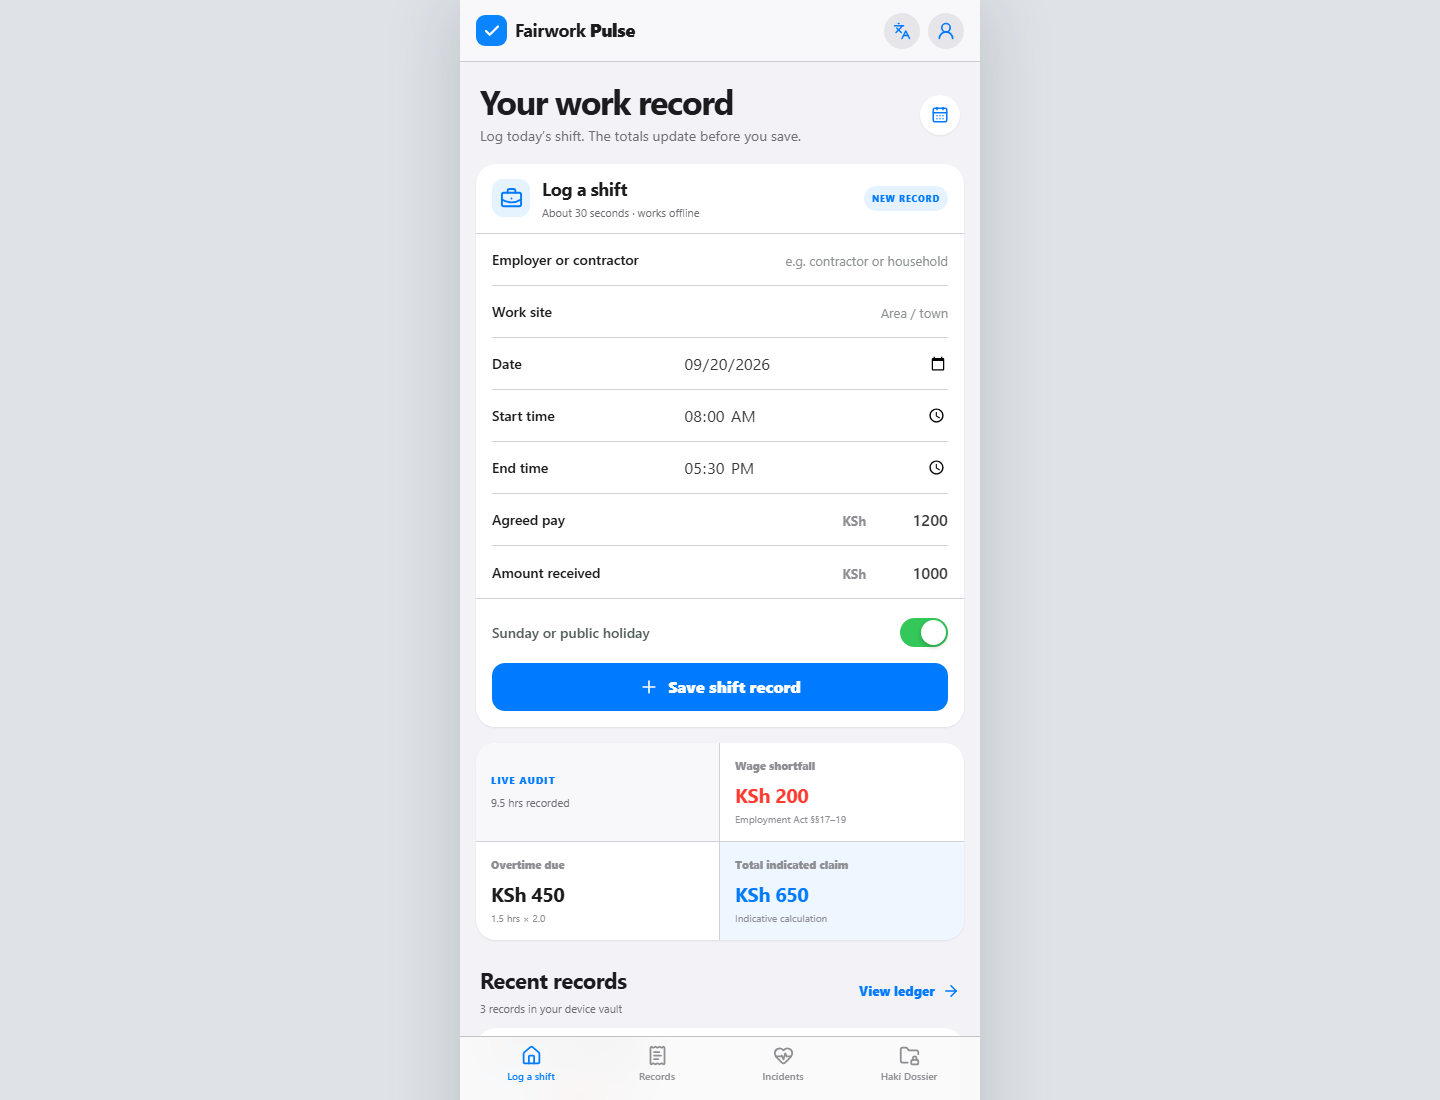
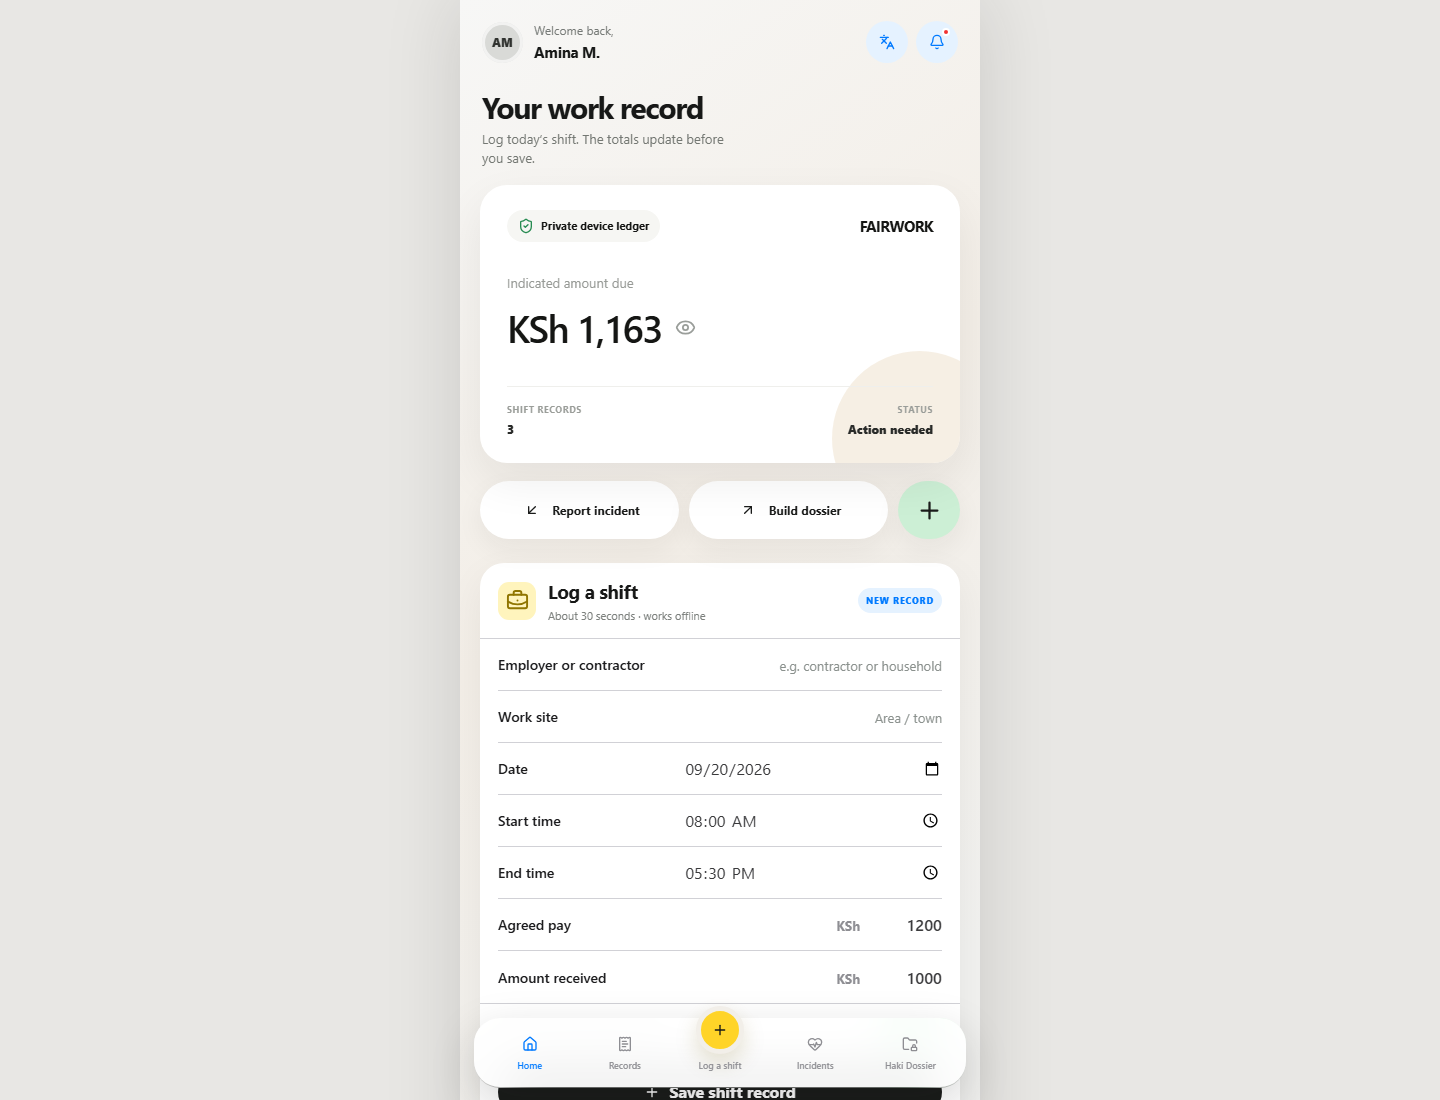
Redesign Fairwork Pulse as native mobile wallet UI

diff --git a/app/page.tsx b/app/page.tsx
@@ -1,6 +1,6 @@
 "use client";
 
-import { AlertTriangle, ArrowLeft, ArrowRight, Baby, Banknote, BriefcaseBusiness, CalendarDays, Camera, Check, ChevronRight, Download, FileCheck2, FileText, FolderLock, HeartPulse, Home, Languages, MapPin, Plus, ReceiptText, Scale, ShieldCheck, UserRound } from "lucide-react";
+import { AlertTriangle, ArrowDownLeft, ArrowLeft, ArrowRight, ArrowUpRight, Baby, Banknote, Bell, BriefcaseBusiness, CalendarDays, Camera, Check, ChevronRight, Download, Eye, FileCheck2, FileText, FolderLock, HeartPulse, Home, Languages, MapPin, Plus, ReceiptText, Scale, ShieldCheck, UserRound } from "lucide-react";
 import { FormEvent, useEffect, useMemo, useState } from "react";
 import { Button } from "@/components/ui/button";
 
@@ -34,11 +34,12 @@ export default function HomePage() {
   function submit(e: FormEvent) { e.preventDefault(); const next: Shift = { id: Date.now(), date: form.date, employer: form.employer || "Employer not named", location: form.location || "Site not named", start: form.start, end: form.end, agreed: Number(form.agreed), paid: Number(form.paid), sunday: form.sunday }; const updated = [next, ...shifts]; setShifts(updated); window.localStorage.setItem("fairwork-pulse-shifts", JSON.stringify(updated)); showToast("Shift saved to your device") }
   const totalOwed = shifts.reduce((sum, shift) => sum + audit(shift.agreed, shift.paid, shift.start, shift.end, shift.sunday).total, 0);
   const nav = [["home", Home, t.log], ["records", ReceiptText, t.records], ["incidents", HeartPulse, t.incidents], ["dossier", FolderLock, t.dossier]] as const;
+  const mobileNav = [["home", Home, "Home"], ["records", ReceiptText, t.records], ["quick-log", Plus, t.log], ["incidents", HeartPulse, t.incidents], ["dossier", FolderLock, t.dossier]] as const;
 
   return <main className="app-shell">
     <header className="topbar">
-      <a className="brand" href="#top" aria-label="Fairwork Pulse home"><span className="brand-mark"><Check size={18} strokeWidth={3} /></span><span>Fairwork <b>Pulse</b></span></a>
-      <div className="header-actions"><div className="device-status"><ShieldCheck size={17} /><span>{t.saved}</span></div><Button variant="iosTinted" size="iosIcon" className="language" onClick={() => setLang(lang === "en" ? "sw" : "en")} aria-label="Change language"><Languages size={18} /><span>{lang === "en" ? "Kiswahili" : "English"}</span></Button><Button variant="iosTinted" size="iosIcon" className="avatar" aria-label="Worker profile"><UserRound size={20} /></Button></div>
+      <button className="profile-greeting" type="button" aria-label="Worker profile"><span className="profile-photo">AM</span><span><small>Welcome back,</small><strong>Amina M.</strong></span></button>
+      <div className="header-actions"><div className="device-status"><ShieldCheck size={17} /><span>{t.saved}</span></div><Button variant="iosTinted" size="iosIcon" className="language" onClick={() => setLang(lang === "en" ? "sw" : "en")} aria-label="Change language"><Languages size={18} /><span>{lang === "en" ? "Kiswahili" : "English"}</span></Button><Button variant="iosTinted" size="iosIcon" className="notification" aria-label="Notifications"><Bell size={19} /><i /></Button></div>
     </header>
     <div className="desktop-grid" id="top">
       <aside className="side-nav" aria-label="Primary navigation">
@@ -54,6 +55,17 @@ export default function HomePage() {
           {active === "dossier" && <><div className="secondary-title"><div><h1>{t.dossier}</h1><p>Your evidence, calculations, and next steps in one reviewable package.</p></div><span className="ready-badge"><Check />Ready</span></div><article className="dossier-preview"><header><div className="dossier-logo"><Scale /></div><div><strong>Fairwork Pulse</strong><span>Haki Dossier · Preview</span></div></header><div className="dossier-person"><span>Complainant</span><b>Amina M. · Construction worker</b><small>Nairobi · 14–18 September 2026</small></div><div className="dossier-total"><span>Indicative amount outstanding</span><strong>{money(totalOwed)}</strong><small>Wage deficit plus calculated overtime</small></div><ul><li><span>Work records</span><b>{shifts.length} attached</b></li><li><span>Evidence files</span><b>3 indexed</b></li><li><span>Legal references</span><b>Employment Act + WIBA</b></li></ul><p>Demo calculations require review against the applicable wage order and contract terms.</p></article><Button variant="iosPrimary" className="screen-action" onClick={() => window.print()}><Download />Open print / PDF</Button><Button variant="iosPlain" className="source-link" onClick={() => showToast("Sources are documented in the project register")}><FileText />Citation register included</Button></>}
         </section>}
         <div className="page-heading"><div><h1>{t.hello}</h1><p>{t.intro}</p></div><div className="date-chip"><CalendarDays size={18} /><span>Sun, 20 Sep</span></div></div>
+        <section className="pulse-card" aria-label="Work record summary">
+          <div className="pulse-card-top"><span><ShieldCheck size={16} /> Private device ledger</span><strong>FAIRWORK</strong></div>
+          <p>Indicated amount due</p>
+          <div className="pulse-balance"><strong>{money(totalOwed)}</strong><Eye size={21} /></div>
+          <div className="pulse-card-meta"><span>SHIFT RECORDS<b>{shifts.length}</b></span><span>STATUS<b>{totalOwed > 0 ? "Action needed" : "Up to date"}</b></span></div>
+        </section>
+        <div className="quick-actions" aria-label="Quick actions">
+          <Button type="button" variant="iosPlain" onClick={() => navigate("incidents")}><span><ArrowDownLeft /></span>Report incident</Button>
+          <Button type="button" variant="iosPlain" onClick={() => navigate("dossier")}><span><ArrowUpRight /></span>Build dossier</Button>
+          <Button type="button" variant="iosPlain" className="quick-add" onClick={() => document.querySelector(".shift-form")?.scrollIntoView({ behavior: "smooth" })} aria-label="Log a shift"><Plus /></Button>
+        </div>
         <form className="shift-form" onSubmit={submit}>
           <div className="form-title"><div className="title-icon"><BriefcaseBusiness size={23} /></div><div><h2>{t.log}</h2><p>About 30 seconds · works offline</p></div><span className="form-step">NEW RECORD</span></div>
           <div className="fields">
@@ -85,7 +97,7 @@ export default function HomePage() {
         <p className="legal-note"><ShieldCheck size={16} /> Calculations are guidance, not legal advice. A labour officer can review your dossier.</p>
       </aside>
     </div>
-    <nav className="mobile-nav" aria-label="Mobile navigation">{nav.map(([id, Icon, label]) => <Button type="button" variant="iosPlain" key={id} className={active === id ? "active" : ""} aria-current={active === id ? "page" : undefined} onClick={() => navigate(id)}><Icon size={21} /><span>{label}</span></Button>)}</nav>
+    <nav className="mobile-nav" aria-label="Mobile navigation">{mobileNav.map(([id, Icon, label]) => <Button type="button" variant="iosPlain" key={id} className={`${active === id ? "active" : ""} ${id === "quick-log" ? "nav-primary" : ""}`} aria-current={active === id ? "page" : undefined} onClick={() => { if (id === "quick-log") { navigate("home"); window.setTimeout(() => document.querySelector(".shift-form")?.scrollIntoView({ behavior: "smooth" }), 30) } else navigate(id) }}><span className="nav-icon"><Icon size={id === "quick-log" ? 25 : 21} /></span><span>{label}</span></Button>)}</nav>
     <div className={savedPulse ? "toast show" : "toast"}><Check size={18} /><span>{toastMessage}</span></div>
   </main>
 }

diff --git a/app/globals.css b/app/globals.css
@@ -38,3 +38,24 @@ body{background:#dfe3e8;color:var(--ink);font-family:-apple-system,BlinkMacSyste
 [data-slot="button"][data-variant="iosPrimary"]{min-height:48px;border:0;border-radius:13px;background:#007aff;color:#fff;font-size:16px;font-weight:700;box-shadow:none}[data-slot="button"][data-variant="iosPrimary"]:hover{background:#006adc}[data-slot="button"][data-variant="iosTinted"]{border:0;background:#e5f2ff;color:#007aff;box-shadow:none}[data-slot="button"][data-variant="iosPlain"]{border:0;background:transparent;color:#007aff;box-shadow:none}.ledger-row[data-slot="button"]{height:auto;min-height:70px;white-space:normal}.mobile-nav [data-slot="button"]{height:auto;min-height:47px}.choice[data-slot="button"]{height:auto;min-height:70px;color:#1c1c1e}.screen-action[data-slot="button"]{color:#fff}
 .mobile-nav [data-slot="button"][data-variant="iosPlain"]{color:#8e8e93}.mobile-nav [data-slot="button"][data-variant="iosPlain"].active{color:#007aff}
 @media print{body{background:#fff}.topbar,.mobile-nav,.secondary-nav,.secondary-title,.screen-action,.source-link,.toast{display:none!important}.app-shell{width:100%;max-width:none;box-shadow:none}.desktop-grid{padding:0}.dossier-preview{box-shadow:none;border:1px solid #d1d1d6}}
+
+/* Fairwork Pulse — warm native mobile dashboard */
+*,*::before,*::after{box-sizing:border-box}
+:root{--paper:#f3f1ed;--sheet:#fff;--ink:#171817;--muted-ink:#7d817e;--rule:#e8e7e3;--accent:#ffd428;--mint:#ccefd5;--blue:#0a72f5;--radius:24px}
+body{background:#e8e7e4}
+.app-shell{background:linear-gradient(145deg,#f7f7f6 0,#f3eee7 30%,#f1f1ef 58%);box-shadow:0 0 70px rgb(31 33 31/15%)}
+.topbar{height:84px;padding:15px 22px;border:0;background:transparent;backdrop-filter:none}
+.profile-greeting{display:flex;align-items:center;gap:11px;padding:0;border:0;background:transparent;color:var(--ink);text-align:left;cursor:pointer}
+.profile-photo{width:41px;height:41px;display:grid;place-items:center;border-radius:50%;background:#d9dad7;color:#30322f;font-size:12px;font-weight:800;box-shadow:inset 0 0 0 3px rgb(255 255 255/65%)}
+.profile-greeting small,.profile-greeting strong{display:block}.profile-greeting small{margin-bottom:2px;color:#767a77;font-size:12px}.profile-greeting strong{font-size:15px;letter-spacing:-.02em}
+.language,.notification{position:relative;width:42px;min-height:42px;background:rgb(255 255 255/66%);color:#1f211f;box-shadow:0 8px 24px rgb(26 28 26/7%)}.language:hover,.notification:hover{background:#fff}.notification i{position:absolute;right:8px;top:7px;width:8px;height:8px;border:2px solid #fff;border-radius:50%;background:#f23131}
+.desktop-grid{padding:8px 20px 116px}.page-heading{margin:0 2px 17px}.page-heading h1{font-size:30px;font-weight:680;letter-spacing:-.045em}.page-heading p{max-width:36ch;color:#747873;font-size:13px}.date-chip{display:none}
+.pulse-card{position:relative;min-height:238px;padding:25px 27px;border-radius:27px;background:#fff;color:#151614;box-shadow:0 18px 45px rgb(32 34 31/7%);overflow:hidden}.pulse-card::after{content:"";position:absolute;right:-47px;bottom:-63px;width:175px;height:175px;border-radius:50%;background:#f3e9db;opacity:.75}.pulse-card-top,.pulse-card-meta{position:relative;z-index:1;display:flex;align-items:center;justify-content:space-between}.pulse-card-top span{display:flex;align-items:center;gap:7px;padding:8px 11px;border-radius:999px;background:#f6f6f3;font-size:11px;font-weight:650}.pulse-card-top span svg{color:#268b51}.pulse-card-top>strong{font-size:15px;letter-spacing:-.04em}.pulse-card>p{position:relative;z-index:1;margin:31px 0 6px;color:#989b97;font-size:13px}.pulse-balance{position:relative;z-index:1;display:flex;align-items:center;gap:13px}.pulse-balance strong{font-size:38px;font-weight:550;letter-spacing:-.045em;font-variant-numeric:tabular-nums}.pulse-balance svg{color:#9a9e9a}.pulse-card-meta{margin-top:30px;padding-top:16px;border-top:1px solid #efefec}.pulse-card-meta span{display:flex;flex-direction:column;gap:4px;color:#9a9d99;font-size:9px;font-weight:700;letter-spacing:.06em}.pulse-card-meta span:last-child{text-align:right}.pulse-card-meta b{color:#292b29;font-size:12px;letter-spacing:0}
+.quick-actions{display:grid;grid-template-columns:1fr 1fr 62px;gap:10px;margin:18px 0 24px}.quick-actions [data-slot="button"]{height:58px;display:flex;justify-content:center;gap:8px;border-radius:999px;background:#fff;color:#1b1c1b;font-size:12px;font-weight:650;box-shadow:0 10px 28px rgb(31 33 30/6%)}.quick-actions [data-slot="button"]>span{width:25px;height:25px;display:grid;place-items:center}.quick-actions svg{width:18px}.quick-actions .quick-add[data-slot="button"]{width:62px;padding:0;background:var(--mint)}.quick-actions .quick-add svg{width:27px;height:27px}
+.shift-form,.ledger,.audit-strip,.incident-choices,.incident-form,.dossier-preview,.ios-summary{border-radius:24px;box-shadow:0 13px 38px rgb(31 33 30/6%)}.form-title{padding:14px 18px}.form-title h2{font-size:19px}.title-icon{background:#fff4bd;color:#907500}.fields{padding:0 18px}.form-footer{padding:12px 18px 18px}.save-button,[data-slot="button"][data-variant="iosPrimary"]{border-radius:999px;background:#191b19}.save-button:hover,[data-slot="button"][data-variant="iosPrimary"]:hover{background:#30332f}.audit-strip{margin-top:18px}.claim-total{background:#fff8d7}.claim-total strong{color:#6c5900}.section-heading{margin-top:28px}.section-heading h2{font-size:25px}.ledger-row{padding:13px 16px}.ledger-date{background:#f4f4f1}
+.secondary-screen{padding-top:2px}.secondary-nav{margin-bottom:24px}.secondary-title h1{font-size:31px}.secondary-title p{color:#7b7e7a}.secondary-title [data-slot="button"][data-variant="iosTinted"]{background:var(--mint);color:#1e6f3f}.choice.selected{background:#fff9df}.screen-action[data-slot="button"]{background:#191b19}.ready-badge{background:var(--mint);color:#1f7442}
+.mobile-nav{width:min(calc(100% - 28px),492px);bottom:13px;padding:7px 8px calc(7px + env(safe-area-inset-bottom));border:0;border-radius:26px;background:rgb(255 255 255/92%);box-shadow:0 16px 45px rgb(28 30 27/18%);backdrop-filter:saturate(150%) blur(24px)}.mobile-nav [data-slot="button"]{position:relative;min-height:51px}.mobile-nav .nav-icon{height:23px;display:grid;place-items:center}.mobile-nav [data-slot="button"].active{color:#171817}.mobile-nav [data-slot="button"]>span:last-child{font-size:9px}.mobile-nav .nav-primary .nav-icon{width:48px;height:48px;margin-top:-27px;border:5px solid #f2efe9;border-radius:50%;background:var(--accent);color:#171817;box-shadow:0 9px 22px rgb(119 97 0/18%)}.mobile-nav .nav-primary>span:last-child{margin-top:2px}.toast{bottom:94px}
+::selection{background:#ffe66f;color:#171817}button:focus-visible,input:focus-visible,textarea:focus-visible{outline:3px solid rgb(10 114 245/28%);outline-offset:2px}
+@media(max-width:560px){.topbar{height:78px;padding:13px 18px}.desktop-grid{padding:6px 14px 118px}.page-heading h1{font-size:29px}.pulse-card{min-height:224px;padding:22px}.pulse-balance strong{font-size:34px}.pulse-card>p{margin-top:27px}.quick-actions{grid-template-columns:1fr 1fr 58px}.quick-actions [data-slot="button"]{height:56px;padding:0 12px;font-size:11px}.quick-actions .quick-add[data-slot="button"]{width:58px}.shift-form{border-radius:22px}.mobile-nav{width:calc(100% - 24px)}}
+@media(max-width:370px){.pulse-balance strong{font-size:30px}.quick-actions{grid-template-columns:1fr 1fr 54px;gap:7px}.quick-actions [data-slot="button"]{padding:0 8px}.quick-actions .quick-add[data-slot="button"]{width:54px}.profile-greeting small{display:none}}
+.mobile-nav{grid-template-columns:repeat(5,1fr)}

diff --git a/DESIGN.md b/DESIGN.md
@@ -1,0 +1,161 @@
+---
+name: Fairwork Pulse
+description: A calm pocket evidence wallet for Kenyan workers.
+colors:
+  ink: "#171817"
+  warm-ground: "#f3f1ed"
+  sheet: "#ffffff"
+  quiet-line: "#e8e7e3"
+  signal-yellow: "#ffd428"
+  protective-mint: "#ccefd5"
+  action-blue: "#0a72f5"
+  danger: "#ff453a"
+typography:
+  display:
+    fontFamily: "-apple-system, BlinkMacSystemFont, 'SF Pro Text', 'Segoe UI', sans-serif"
+    fontSize: "1.875rem"
+    fontWeight: 680
+    lineHeight: 1.08
+    letterSpacing: "-0.04em"
+  body:
+    fontFamily: "-apple-system, BlinkMacSystemFont, 'SF Pro Text', 'Segoe UI', sans-serif"
+    fontSize: "0.875rem"
+    fontWeight: 400
+    lineHeight: 1.45
+  label:
+    fontFamily: "-apple-system, BlinkMacSystemFont, 'SF Pro Text', 'Segoe UI', sans-serif"
+    fontSize: "0.75rem"
+    fontWeight: 650
+    lineHeight: 1.2
+rounded:
+  control: "13px"
+  surface: "24px"
+  pill: "999px"
+spacing:
+  compact: "8px"
+  control: "14px"
+  surface: "20px"
+  section: "28px"
+components:
+  button-primary:
+    background: "{colors.ink}"
+    color: "{colors.sheet}"
+    borderRadius: "{rounded.pill}"
+  button-quiet:
+    background: "{colors.sheet}"
+    color: "{colors.ink}"
+    borderRadius: "{rounded.pill}"
+  card:
+    background: "{colors.sheet}"
+    color: "{colors.ink}"
+    borderRadius: "{rounded.surface}"
+---
+
+# Design System: Fairwork Pulse
+
+## Overview
+
+**Creative North Star: "The Pocket Evidence Wallet"**
+
+Fairwork Pulse should feel like a trusted personal instrument carried at the end of a working day: quiet, protective, and immediately legible. The interface borrows the composure and tactile hierarchy of a native mobile wallet while using its most prominent surfaces for wage evidence, incident reporting, and remedy preparation.
+
+Warm neutral ground, bright paper surfaces, compact typography, and sparing signal colors keep the product reassuring without making legal or financial risk feel casual. The worker's current claim and next useful action always receive the clearest visual weight.
+
+**Key Characteristics:**
+- Warm, low-contrast environmental ground with crisp white working surfaces.
+- One prominent summary surface followed by direct, pill-shaped actions.
+- Native-feeling controls, generous touch targets, and a floating bottom dock.
+- Yellow for capture, mint for protection, blue for navigation, red only for risk.
+
+## Colors
+
+The palette combines warm paper neutrals with small, purposeful safety signals.
+
+### Primary
+- **Work Ink:** The default text and primary-action color; use it for decisive labels and save actions.
+
+### Secondary
+- **Signal Yellow:** Reserved for the central log action and evidence-capture moments.
+- **Protective Mint:** Used for privacy, completion, and low-pressure supportive actions.
+- **Action Blue:** Used for navigation state, links, and system-level affordances.
+
+### Neutral
+- **Warm Ground:** The app canvas behind all working surfaces.
+- **Paper Sheet:** Cards, grouped forms, and the bottom dock.
+- **Quiet Line:** Hairline separators inside grouped controls.
+
+**The Signal Economy Rule.** Bright color must communicate action or state; it is never ambient decoration.
+
+## Typography
+
+**Display Font:** Platform UI sans with Segoe UI fallback
+**Body Font:** Platform UI sans with Segoe UI fallback
+
+**Character:** Compact and familiar, with strong numerals for money and hours. Hierarchy comes from weight and scale rather than ornamental type.
+
+### Hierarchy
+- **Display** (680, 1.875rem, 1.08): Page titles and major record headings.
+- **Headline** (700, 1.2rem, 1.2): Form and section headings.
+- **Title** (650, 0.94rem, 1.25): Record names and high-value row labels.
+- **Body** (400, 0.875rem, 1.45): Instructions and explanatory copy.
+- **Label** (650, 0.75rem, normal case): Controls, metadata, and action names.
+
+**The Numeric Clarity Rule.** Monetary values use tabular numerals and tighter tracking than supporting copy.
+
+## Layout
+
+The product is a phone-first single-column surface capped at 520px and centered on larger screens. Primary pages use 14–20px side gutters, 24–28px section spacing, and uninterrupted vertical reading order. Dense forms use grouped rows rather than nested cards. At small widths, labels and values retain separate columns; essential actions remain reachable above the floating navigation dock.
+
+## Elevation & Depth
+
+Depth is ambient, never structural. White working surfaces float above the warm ground with broad, low-opacity shadows. Internal hierarchy uses tonal changes and hairline separators; borders and shadows do not appear together on the same surface.
+
+### Shadow Vocabulary
+- **Ambient Surface** (`0 18px 45px rgb(32 34 31 / 7%)`): Major summary surfaces.
+- **Quiet Group** (`0 13px 38px rgb(31 33 30 / 6%)`): Forms, ledgers, and grouped choices.
+- **Floating Dock** (`0 16px 45px rgb(28 30 27 / 18%)`): Persistent mobile navigation only.
+
+**The One Plane Rule.** A component gets either a separator or elevation at its outer edge, never both.
+
+## Shapes
+
+Large surfaces use gently rounded 24–27px corners. Primary buttons and compact actions are true pills. Icon wells use 10–12px corners, while the central capture action is circular. Organic cropped circles may softly enter summary-card corners but may not replace content.
+
+## Components
+
+### Buttons
+- **Shape:** Full pills for primary and quick actions; compact 13px corners for secondary in-form controls.
+- **Primary:** Work Ink background, white label, 48px minimum height.
+- **Hover / Focus:** Darken slightly on hover; use a translucent action-blue focus ring.
+- **Secondary:** White or softly tinted surfaces with dark text and a real Lucide icon.
+
+### Cards / Containers
+- **Corner Style:** Large, softly rounded surfaces (24px).
+- **Background:** Paper Sheet on Warm Ground.
+- **Shadow Strategy:** Broad ambient lift without an outside border.
+- **Internal Padding:** 20–27px for summaries; 14–18px for grouped controls.
+
+### Inputs / Fields
+- **Style:** Transparent grouped rows with a Quiet Line separator; label left, value right.
+- **Focus:** Blue ring or caret feedback without shifting layout.
+- **Error / Disabled:** Risk red is reserved for actionable errors and unpaid-status text.
+
+### Navigation
+- **Style:** A floating five-position paper dock. Default items are gray, the active destination is blue, and the center log control is a raised yellow circle with a plus icon.
+
+### Evidence Summary
+- **Style:** A large white wallet-like surface showing the indicated amount due, record count, and status. It is the visual anchor of the home screen.
+
+## Do's and Don'ts
+
+### Do:
+- **Do** make the worker's current amount, record status, and next action visible in the first viewport.
+- **Do** maintain 44px or larger interactive targets and visible keyboard focus.
+- **Do** use Lucide icons consistently and pair unfamiliar symbols with labels.
+- **Do** let Kiswahili and English labels expand without overlap.
+
+### Don't:
+- **Don't** use banking logos, card-network branding, or proprietary Apple interface assets.
+- **Don't** decorate every card with a different color; signal colors must retain meaning.
+- **Don't** stack cards inside cards when grouped rows can communicate the structure.
+- **Don't** use glass effects away from the navigation dock or other genuinely floating chrome.
